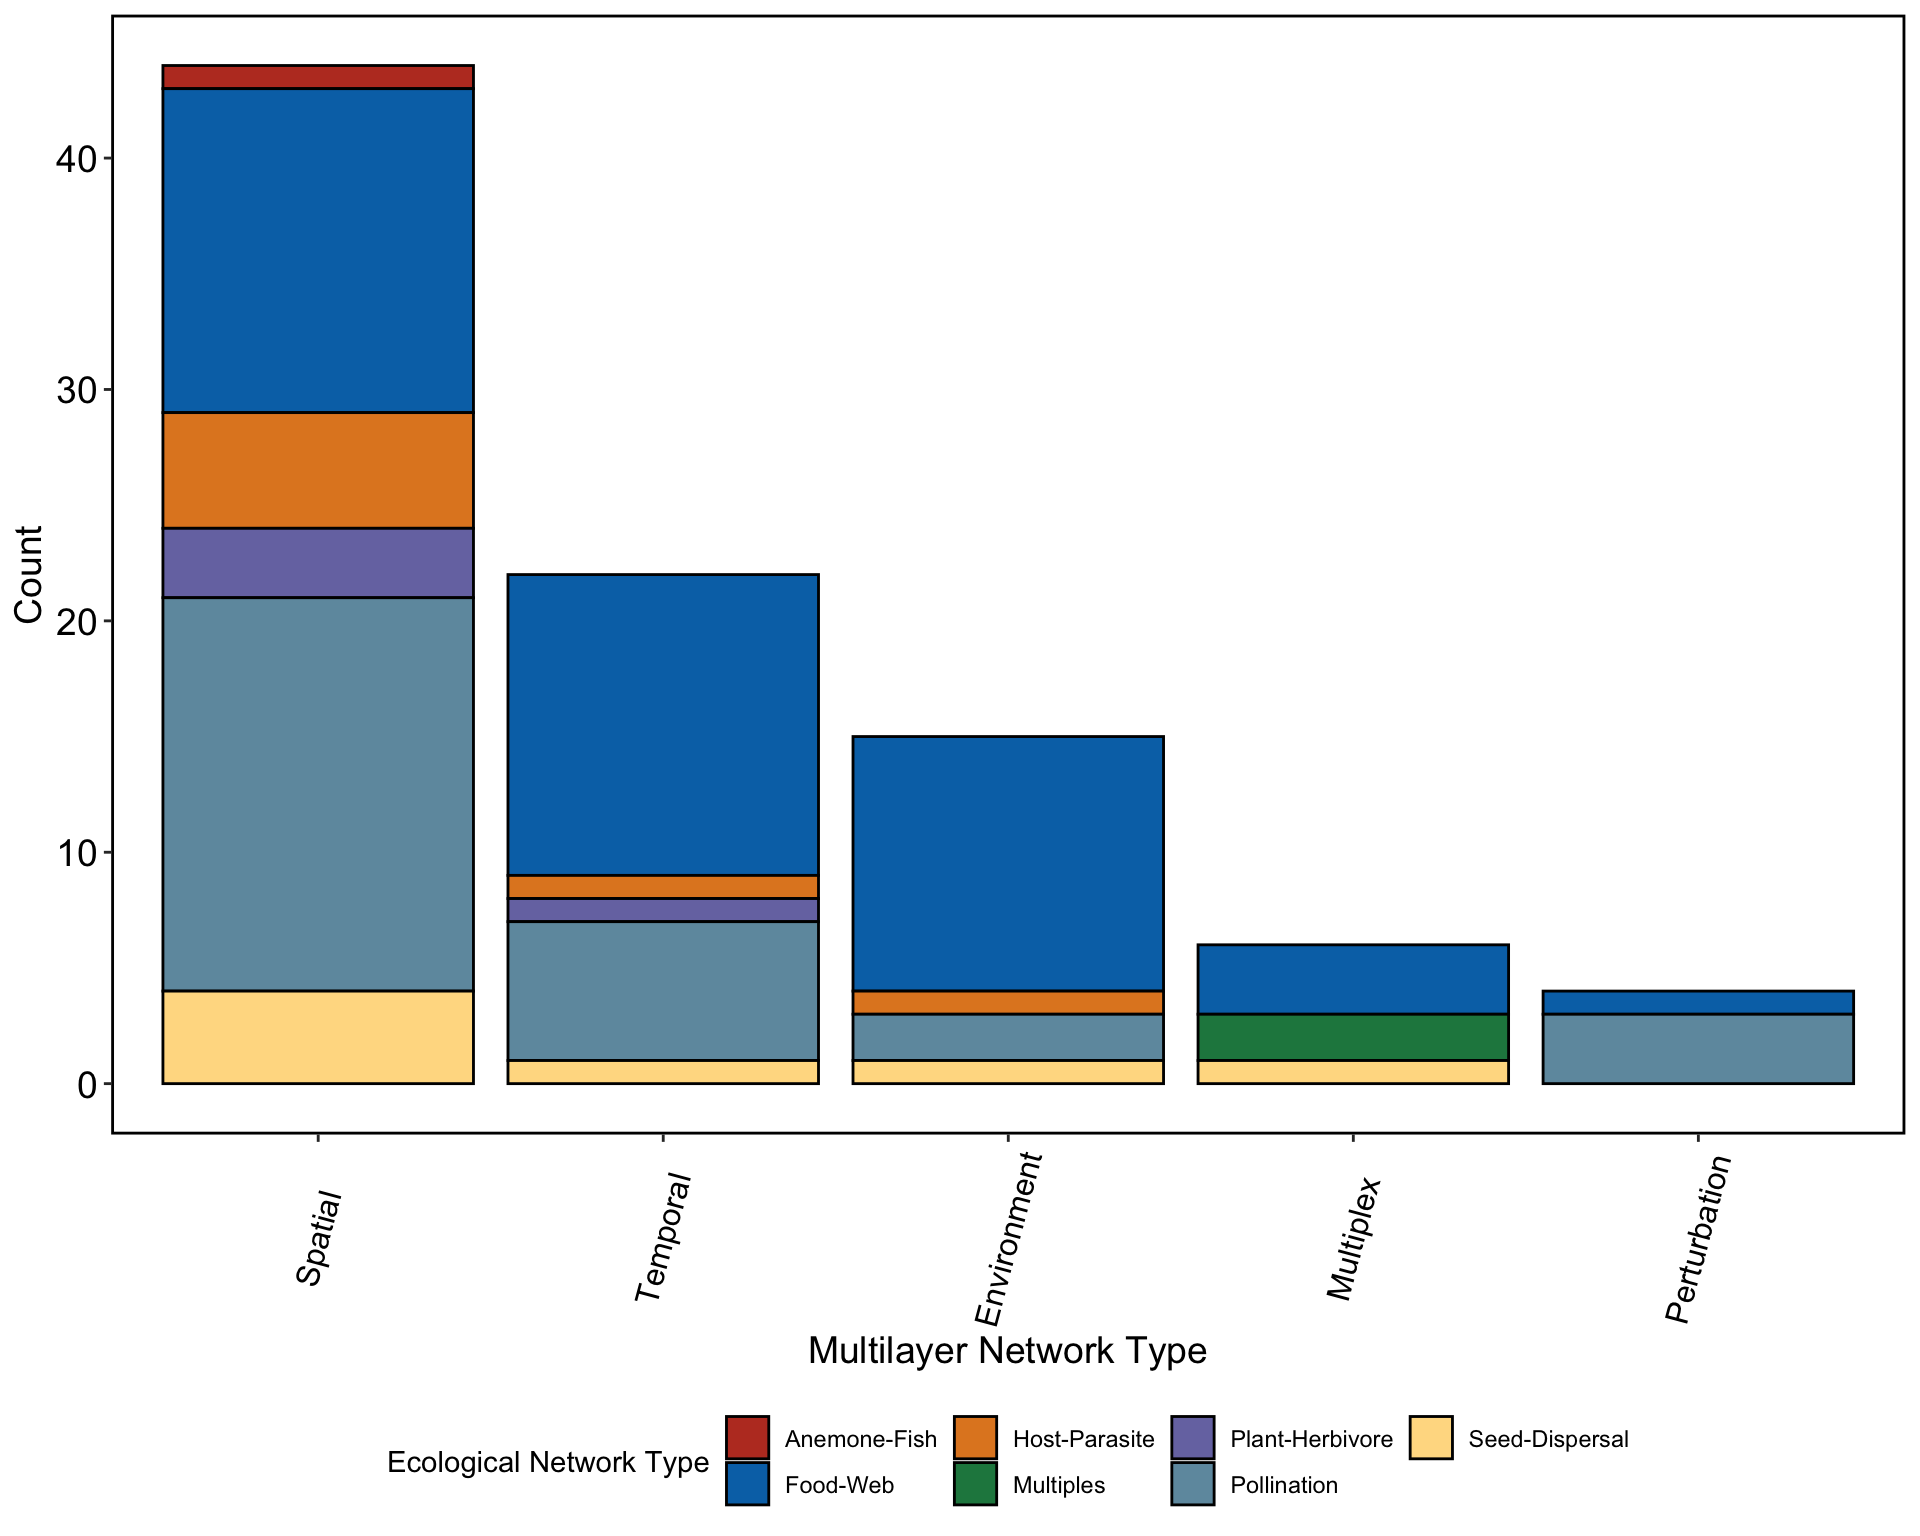
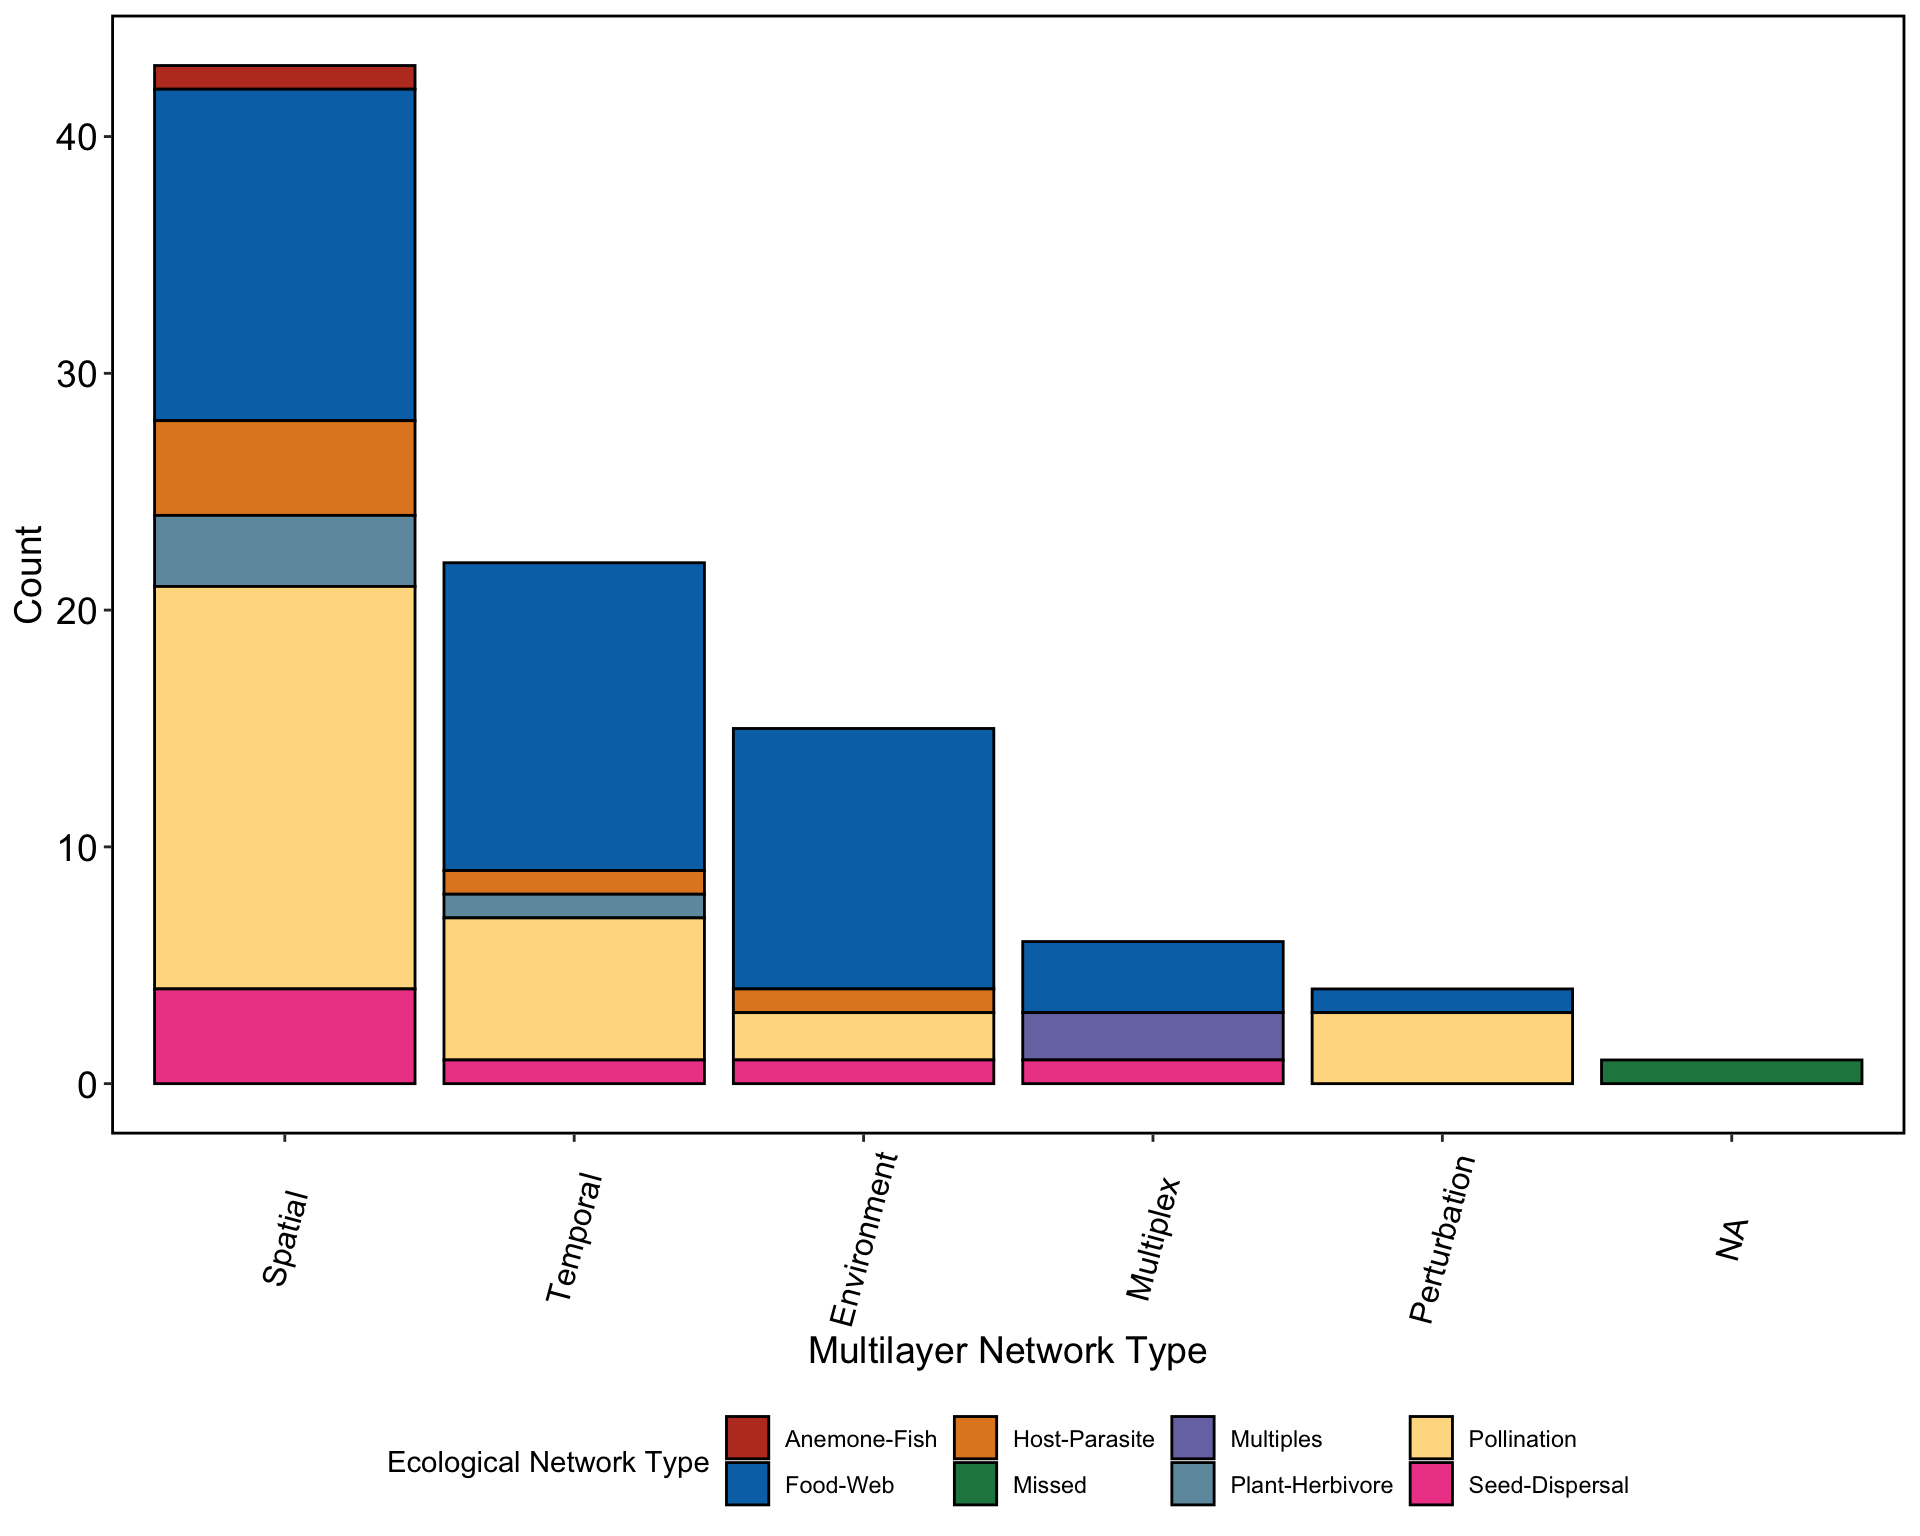
make site
data temporary changed (issue 85)

diff --git a/docs/monolayer.html b/docs/monolayer.html
@@ -421,28 +421,28 @@ matrix_to_list_unipartite(adjacency_matrix, directed = TRUE)</code></pre>
 ## 
 ## $mat
 ##    A1 A2 A3
-## A1  2  2  3
-## A2  1  4  5
-## A3  5  3  4
+## A1  4  1  2
+## A2  3  1  3
+## A3  3  3  2
 ## 
 ## $edge_list
 ## # A tibble: 9 × 3
 ##   from  to    weight
 ##   &lt;chr&gt; &lt;chr&gt;  &lt;dbl&gt;
-## 1 A1    A1         2
-## 2 A1    A2         1
-## 3 A1    A3         5
-## 4 A2    A1         2
-## 5 A2    A2         4
+## 1 A1    A1         4
+## 2 A1    A2         3
+## 3 A1    A3         3
+## 4 A2    A1         1
+## 5 A2    A2         1
 ## 6 A2    A3         3
-## 7 A3    A1         3
-## 8 A3    A2         5
-## 9 A3    A3         4
+## 7 A3    A1         2
+## 8 A3    A2         3
+## 9 A3    A3         2
 ## 
 ## $igraph_object
-## IGRAPH 7a6f578 DNW- 3 9 -- 
+## IGRAPH b5ff1b6 DNW- 3 9 -- 
 ## + attr: name (v/c), weight (e/n)
-## + edges from 7a6f578 (vertex names):
+## + edges from b5ff1b6 (vertex names):
 ## [1] A1-&gt;A1 A1-&gt;A2 A1-&gt;A3 A2-&gt;A1 A2-&gt;A2 A2-&gt;A3 A3-&gt;A1 A3-&gt;A2 A3-&gt;A3
 ## 
 ## attr(,&quot;class&quot;)
@@ -468,26 +468,26 @@ list_to_matrix(link_list_unipartite, directed = TRUE, bipartite = FALSE)</code><
 ## 
 ## $mat
 ##    A1 A2 A3
-## A1  4  4  1
-## A2  2  4  2
-## A3  2  5  4
+## A1  3  5  2
+## A2  1  2  1
+## A3  2  2  5
 ## 
 ## $edge_list
 ##   from to weight
-## 1   A1 A1      4
-## 2   A1 A2      2
+## 1   A1 A1      3
+## 2   A1 A2      1
 ## 3   A1 A3      2
-## 4   A2 A1      4
-## 5   A2 A2      4
-## 6   A2 A3      5
-## 7   A3 A1      1
-## 8   A3 A2      2
-## 9   A3 A3      4
+## 4   A2 A1      5
+## 5   A2 A2      2
+## 6   A2 A3      2
+## 7   A3 A1      2
+## 8   A3 A2      1
+## 9   A3 A3      5
 ## 
 ## $igraph_object
-## IGRAPH ef243ef DNW- 3 9 -- 
+## IGRAPH ef011c1 DNW- 3 9 -- 
 ## + attr: name (v/c), weight (e/n)
-## + edges from ef243ef (vertex names):
+## + edges from ef011c1 (vertex names):
 ## [1] A1-&gt;A1 A1-&gt;A2 A1-&gt;A3 A2-&gt;A1 A2-&gt;A2 A2-&gt;A3 A3-&gt;A1 A3-&gt;A2 A3-&gt;A3
 ## 
 ## attr(,&quot;class&quot;)
@@ -559,18 +559,18 @@ matrix_to_list_bipartite(incidence_matrix, group_names = c(&#39;A_set&#39;, &#39
 <pre><code>## # A tibble: 12 × 3
 ##    from  to    weight
 ##    &lt;chr&gt; &lt;chr&gt;  &lt;dbl&gt;
-##  1 A1    P1         2
+##  1 A1    P1         5
 ##  2 A1    P2         3
-##  3 A1    P3         3
+##  3 A1    P3         4
 ##  4 A1    P4         4
-##  5 A2    P1         4
-##  6 A2    P2         5
-##  7 A2    P3         2
-##  8 A2    P4         3
-##  9 A3    P1         3
-## 10 A3    P2         1
-## 11 A3    P3         2
-## 12 A3    P4         1</code></pre>
+##  5 A2    P1         2
+##  6 A2    P2         4
+##  7 A2    P3         1
+##  8 A2    P4         5
+##  9 A3    P1         2
+## 10 A3    P2         5
+## 11 A3    P3         3
+## 12 A3    P4         4</code></pre>
 <p>To demonstrate real data we use the incidence matrix olesen2002flores
 included in the bipartite package.</p>
 <pre class="r"><code># create a monolayer object from a bipartite matrix
@@ -613,9 +613,9 @@ monolayer_bipartite$edge_list</code></pre>
 ## # ℹ 20 more rows</code></pre>
 <pre class="r"><code># An igraph object is also created
 monolayer_bipartite$igraph_object</code></pre>
-<pre><code>## IGRAPH 6b37811 UNWB 22 30 -- 
+<pre><code>## IGRAPH 8071ecb UNWB 22 30 -- 
 ## + attr: type (v/l), name (v/c), weight (e/n)
-## + edges from 6b37811 (vertex names):
+## + edges from 8071ecb (vertex names):
 ##  [1] Halictus.sp.    --Azorina:vidalii       Halictus.sp.    --Solidago:sempervivens
 ##  [3] Halictus.sp.    --Daucus:carota         Halictus.sp.    --Silene:vulgaris      
 ##  [5] Halictus.sp.    --Chamomilla:suaveolens Halictus.sp.    --Reseda:luteola       

diff --git a/docs/multilayer.html b/docs/multilayer.html
@@ -1354,9 +1354,9 @@ The <code>sn_id</code> corresponds to that in the
 <pre class="r"><code>g_layers &lt;- get_igraph(multilayer_unip_attributes, bipartite = F, directed = T)</code></pre>
 <p>Let’s look at one layer as an example.</p>
 <pre class="r"><code>g_layers$layers_igraph[[2]]</code></pre>
-<pre><code>## IGRAPH 373bb89 DNW- 4 2 -- 
+<pre><code>## IGRAPH db71f6d DNW- 4 2 -- 
 ## + attr: name (v/c), sn_id (v/n), node_id (v/n), order (v/c), weight (e/n), method (e/c)
-## + edges from 373bb89 (vertex names):
+## + edges from db71f6d (vertex names):
 ## [1] fish-&gt;pelican crab-&gt;fish</code></pre>
 <p>The state nodes are listed below. Note that they include the
 attributes of the physical nodes (order in this example), and that all
@@ -1436,9 +1436,9 @@ vertex.attributes(g_layers$layers_igraph[[3]])</code></pre>
 <pre class="r"><code>g_layers_bip &lt;- get_igraph(multilayer = multilayer_bip_toy, bipartite = T, directed = F)
 l2 &lt;- g_layers_bip$layers_igraph[[2]]
 l2</code></pre>
-<pre><code>## IGRAPH ff9e130 UNWB 15 11 -- 
+<pre><code>## IGRAPH 2489478 UNWB 15 11 -- 
 ## + attr: name (v/c), sn_id (v/n), node_id (v/n), type (v/l), weight (e/n)
-## + edges from ff9e130 (vertex names):
+## + edges from 2489478 (vertex names):
 ##  [1] H1--P1 H1--P3 H1--P4 H2--P1 H2--P2 H3--P1 H3--P3 H3--P4 H4--P1 H4--P2 H5--P1</code></pre>
 <pre class="r"><code>vertex.attributes(l2)</code></pre>
 <pre><code>## $name

diff --git a/docs/data.html b/docs/data.html
@@ -407,23 +407,25 @@ library(ggpubr)</code></pre>
 from different sources. This collection of data is highly useful for
 comparative analysis and for practicing workflows. How data were
 collected and organized is described in the paper.</p>
-<p>The data includes 5 types of multilayer networks:</p>
+<p>The data includes 6 types of multilayer networks:</p>
 <pre><code>##     multi_type count
-## 1      Spatial    44
+## 1      Spatial    43
 ## 2     Temporal    22
 ## 3  Environment    15
 ## 4    Multiplex     6
-## 5 Perturbation     4</code></pre>
-<p>These are divided into 7 types of ecological interaction
+## 5 Perturbation     4
+## 6       Missed     1</code></pre>
+<p>These are divided into 8 types of ecological interaction
 networks:.</p>
 <pre><code>##          eco_type count
 ## 1        Food-Web    36
 ## 2     Pollination    25
 ## 3  Seed-Dispersal     7
-## 4   Host-Parasite     6
+## 4   Host-Parasite     5
 ## 5 Plant-Herbivore     3
 ## 6       Multiples     2
-## 7    Anemone-Fish     1</code></pre>
+## 7          Missed     1
+## 8    Anemone-Fish     1</code></pre>
 <p>Here is a visual summary:</p>
 <p><img src="data_files/figure-html/unnamed-chunk-5-1.png" width="960" /></p>
 <p>The data is distributed globally:</p>

diff --git a/website_source/docs/analysis_example.html b/website_source/docs/analysis_example.html
@@ -372,7 +372,7 @@ div.tocify {
 </div>
 
 
-<!-- last modified 1/06/23 16:10 - moving updated version to the right place, editing documentation -->
+<!-- last modified 14/06/23 18:40 - moving updated version to the right place, editing documentation -->
 <script>
   addClassKlippyTo("pre.r, pre.markdown");
   addKlippy('right', 'top', '#8B0000', '1', 'Copy code', 'Copied!');
@@ -626,7 +626,7 @@ species transition between modules over time, providing a visual
 representation of the dynamics of species communities within the
 multilayer network.</p>
 <p>for more details on temporal multilayer network analysis using
-infomapecology visit <a
+<code>infomapecology</code> visit <a
 href="https://ecological-complexity-lab.github.io/infomap_ecology_package/multilayer_relax">Temporal
 multilayer network with global relax rates</a> and <a
 href="https://ecological-complexity-lab.github.io/infomap_ecology_package/multilayer_interlayer.html">Temporal
